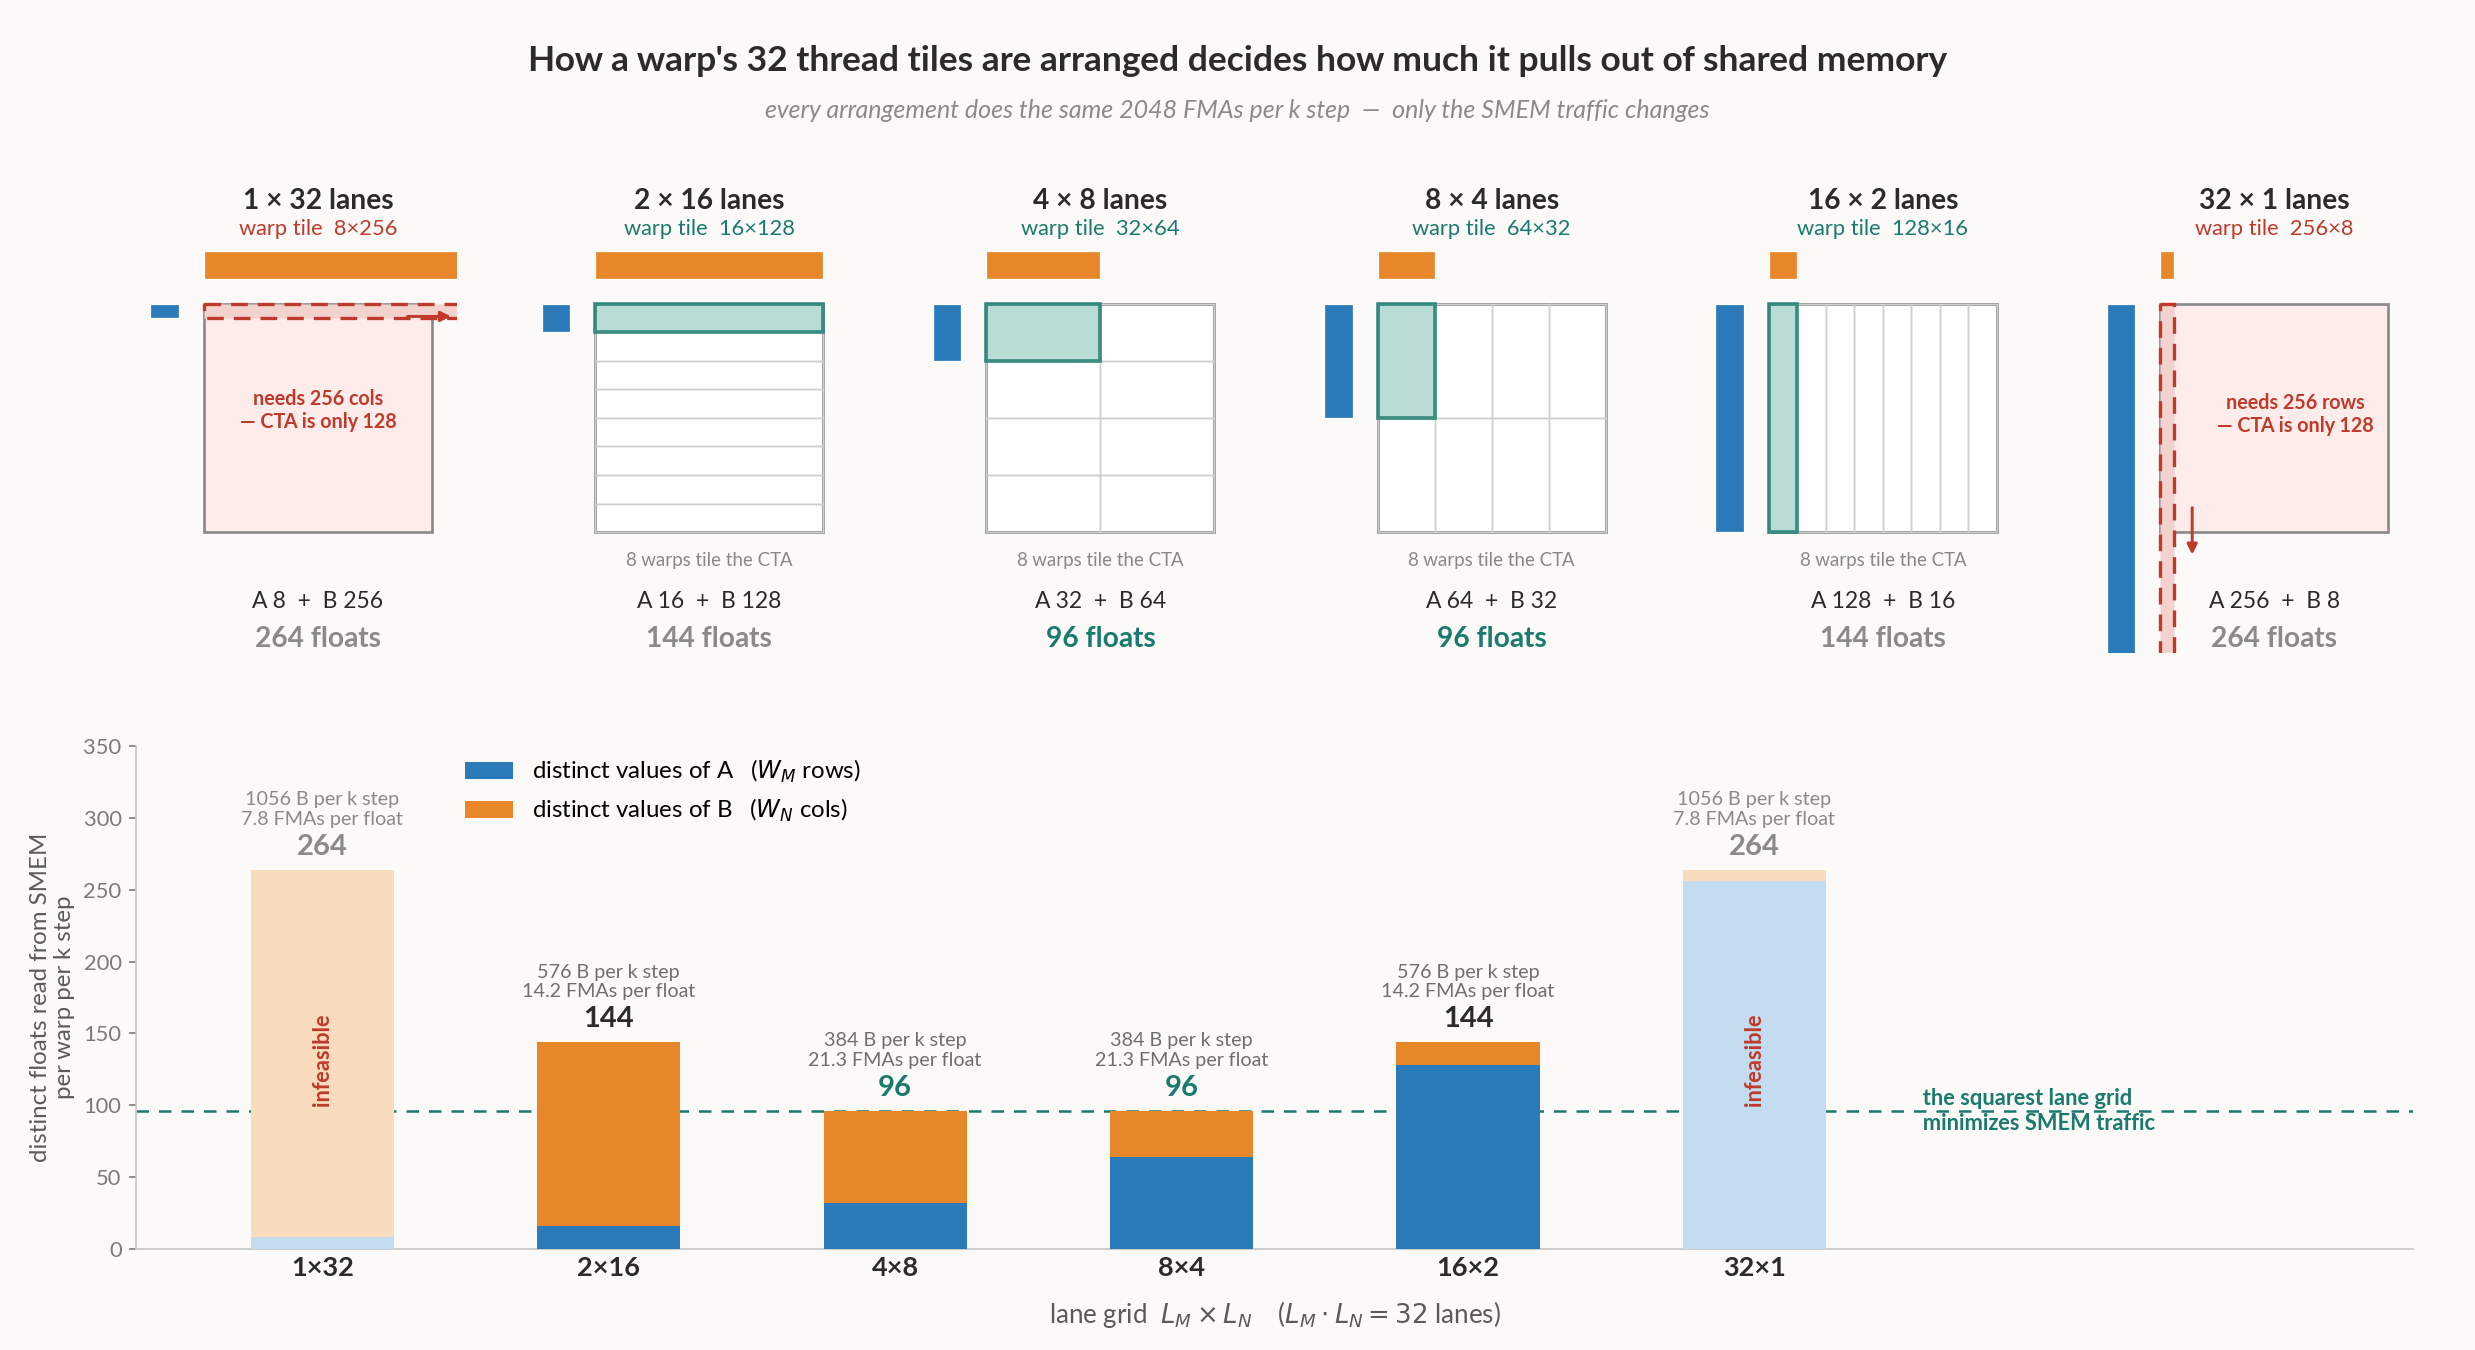
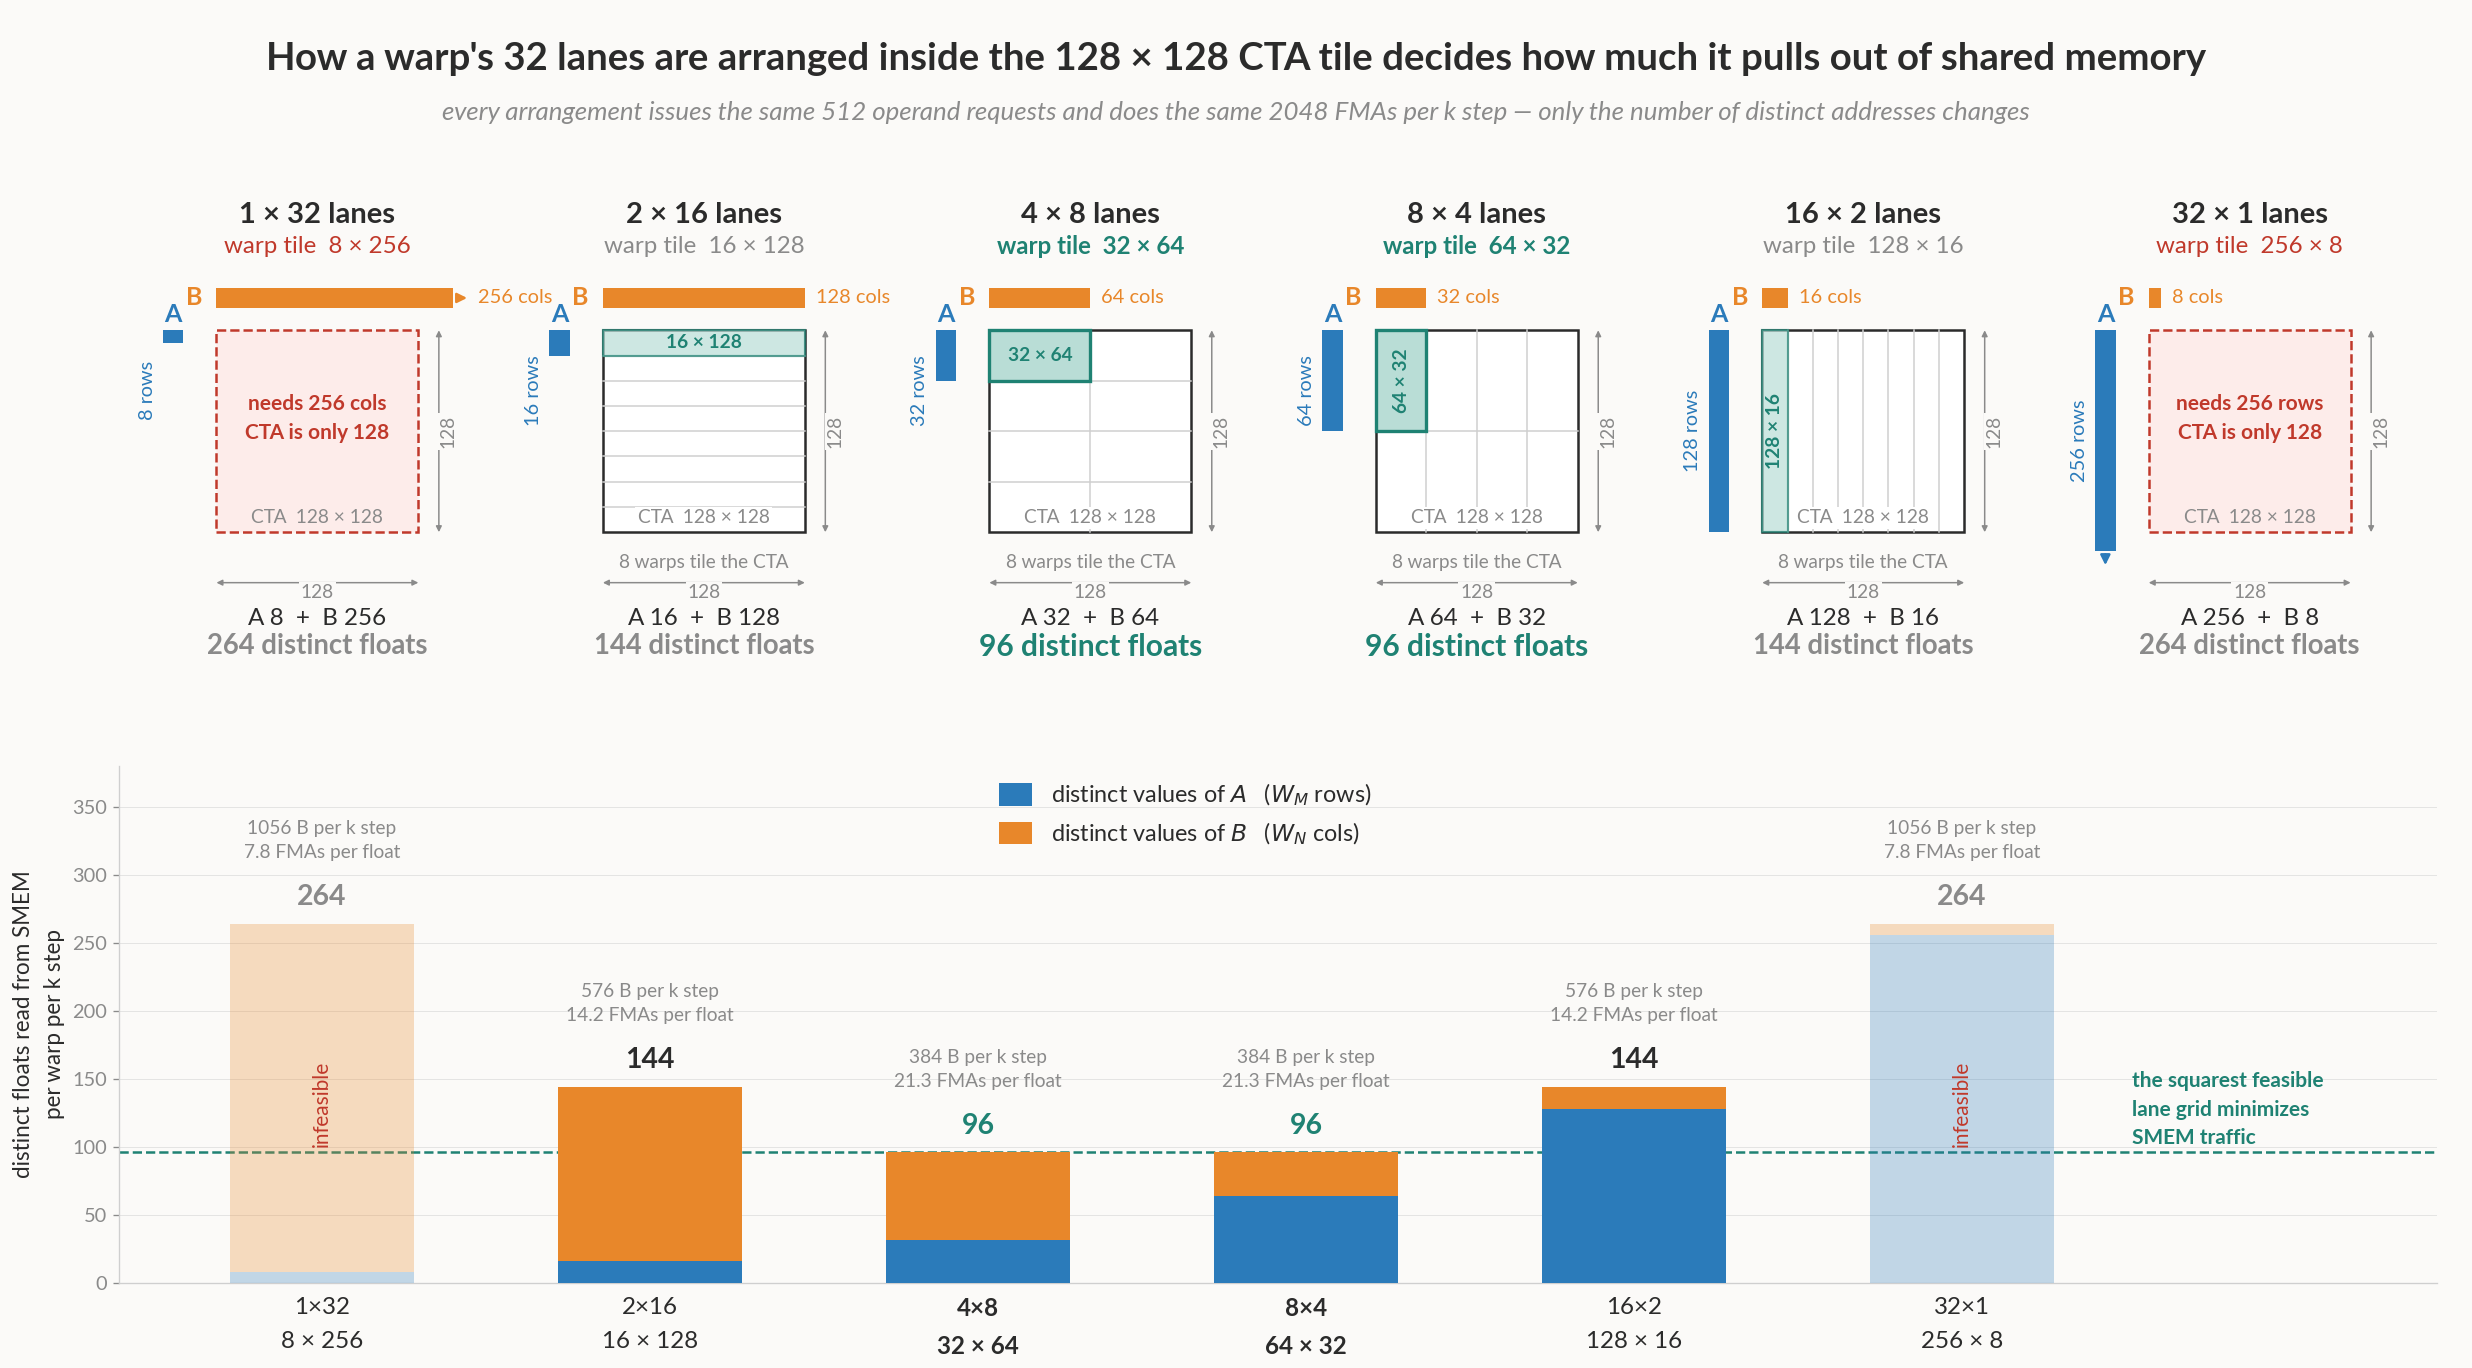
Add alt text to warp lane grid diagram
Replace the placeholder alt text with a full description of the six
lane grids and their distinct-operand counts, and update the image
with the matching revised figure.

diff --git a/src/content/posts/tiling-hierarchy-on-gpus.md b/src/content/posts/tiling-hierarchy-on-gpus.md
@@ -203,7 +203,7 @@ Below are different possible arrangements of `LM x LN`
 
 The `1×32` and `32×1` lane grids are not possible because the warp tile would be 8×256 or 256×8, and its 256-wide dimension exceeds the 128×128 CTA tile (`WN > BN` or `WM > BM`).
 
-![...](./warp-shape.png)
+![The six lane grids drawn against the 128 by 128 CTA tile. Every arrangement issues the same 512 operand requests per k step, but the warp tile it implies changes how many of those addresses are distinct: 1 by 32 and 32 by 1 need a 256-wide warp tile and do not fit in the CTA at all, 2 by 16 and 16 by 2 pull 144 distinct floats, and the squarest feasible grids, 4 by 8 and 8 by 4, pull only 96](./warp-shape.png)
 
 Among the remaining grids, `4×8` and `8×4` result in the fewest unique floats, allowing data to be broadcast while serving an `LDS` request from shared memory. Both also divide the CTA evenly: a 32×64 warp tile gives a 4×2 arrangement of the 8 warps, and a 64×32 warp tile gives a 2×4 arrangement.
 
